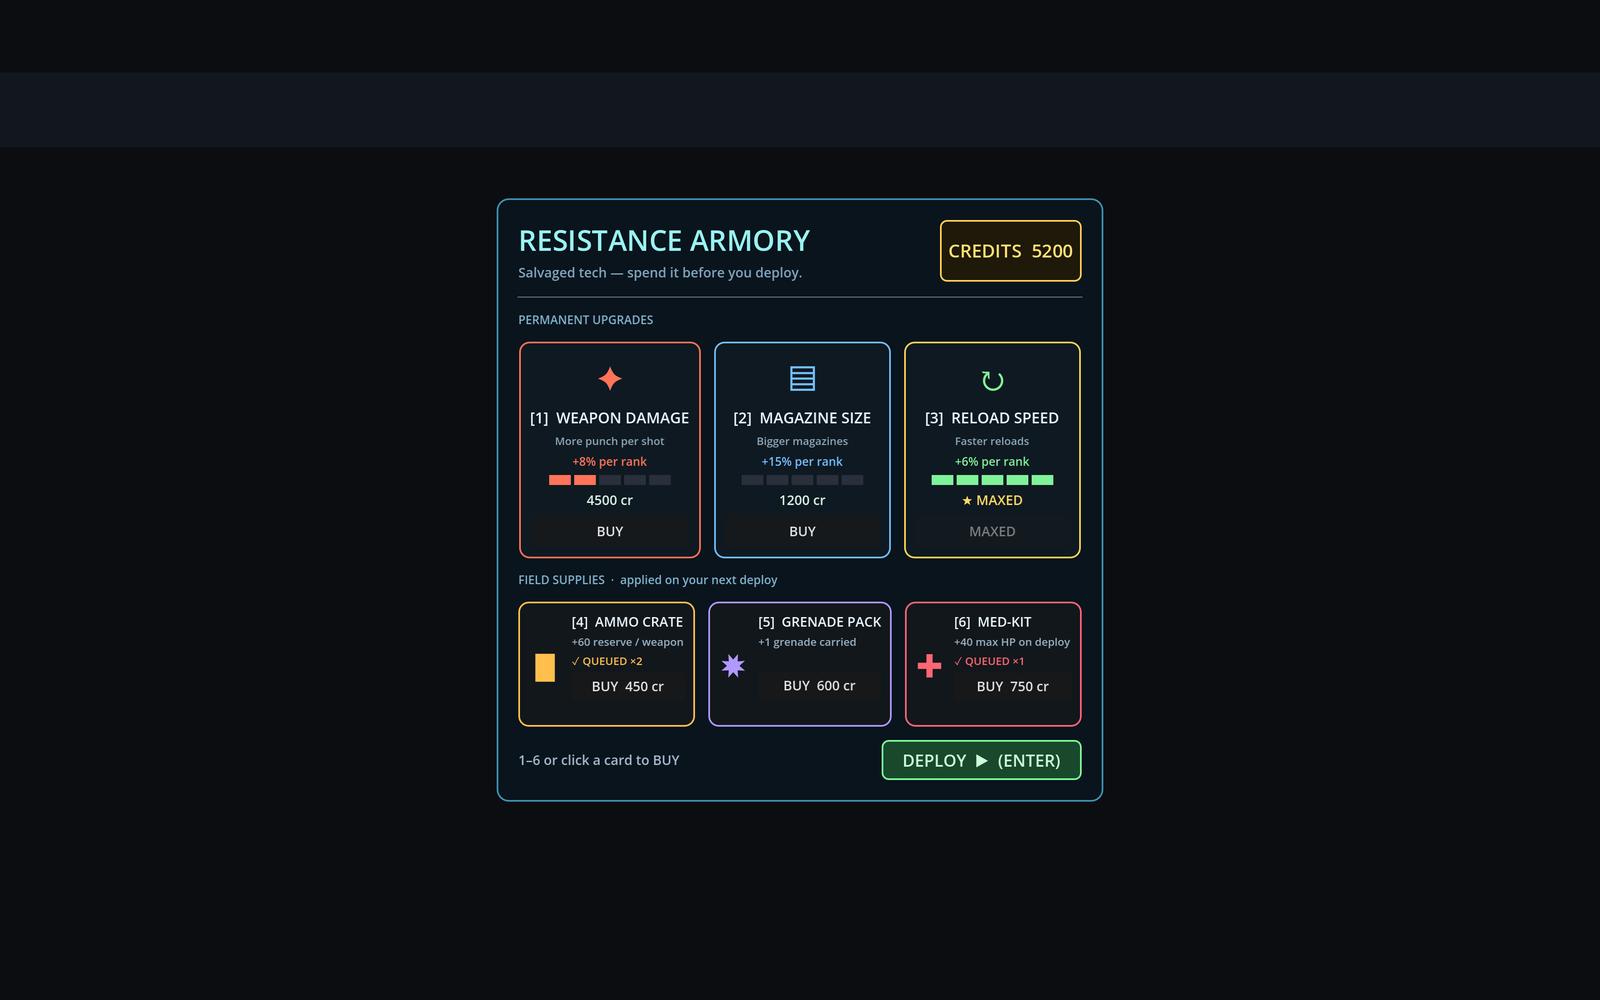
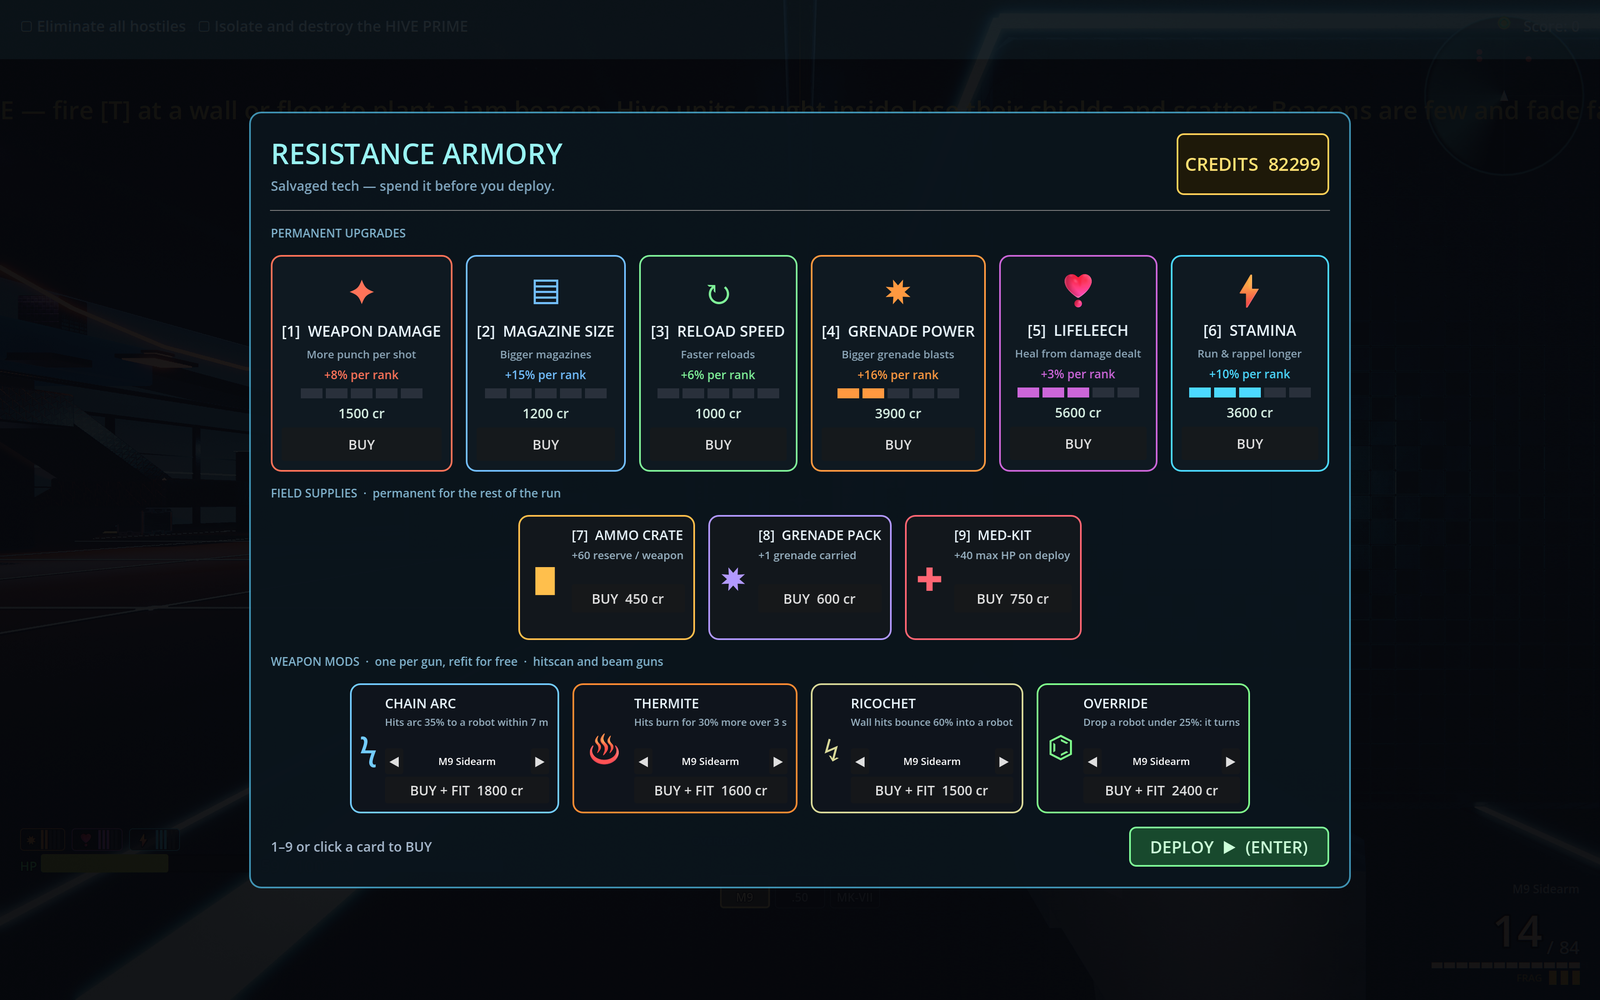
README: a gallery of the game as it looks now, and counts that match the code
The README gallery was frozen in June: gray-floor model renders, a 20-level
campaign map and early firefights, while the game has since had its lighting,
grade and comic-briefing passes. Anyone landing on the repo saw the weakest
version of it. It now opens on the title-screen key art with an itch.io link,
and the 18-shot gallery (14 new, picked from the in-engine captures) is grouped
into sectors, combat, and story and between levels. The 11 replaced stills are
untracked rather than left as dead weight in every checkout.

Its numbers were also wrong, and now come from the registries: 24 levels
(GameState.CAMPAIGN, was 20), 13 weapons (WEAPON_ORDER, was 17 and named four
guns that no longer exist), four grenade types (was two), 51 hostiles and 7
bosses (EnemyCodex.ORDER, was 39 and 5, and named a Magma Wraith that is gone),
all 15 task types, and the probe suite in place of a stale workflow note.

Verified: every README image path exists, no tracked still is unreferenced,
tools/check_large_files.py passes (new stills 1600x1000, 0.7-2.2 MB).

diff --git a/README.md b/README.md
@@ -1,33 +1,51 @@
 # AI Uprising
 
-A 3D first-person shooter built in **Godot 4.7** (Forward+). The machines we trusted turned on us — fight back through a 20-level campaign of rogue drones, androids, spiders, shielded brutes, kamikaze seekers, leaping skitters, siege mechs, and towering bosses — including hazard arenas fought on catwalks over a molten sea — against an enemy AI that adapts to how you play, narrated by cinematic cutscenes and scored by adaptive synth music.
+![AI Uprising title screen](docs/screenshots/title_screen.png)
 
-Nearly everything in the game — geometry, enemies, weapons, FX, audio, and cutscenes — is **generated in code or from compact data**, so the whole project is tiny, fully version-controllable as text, and trivial to validate headlessly.
+**[Play it on itch.io](https://gotrex.itch.io/ai-uprising)** (Windows and Linux builds) · or run it from source with Godot 4.7, below.
+
+A 3D first-person shooter built in **Godot 4.7** (Forward+). The machines we trusted turned on us. Fight back through a 24-level campaign of rogue drones, androids, spiders, shielded brutes, kamikaze seekers, leaping skitters, siege mechs and towering bosses, including hazard arenas fought on catwalks over a molten sea and a flooded reactor, against an enemy AI that adapts to how you play, narrated by comic-book briefings and scored by adaptive synth music.
+
+Nearly everything in the game (geometry, enemies, weapons, FX, audio, cutscenes) is **generated in code or from compact data**, so the whole project is small, version-controllable as text, and validated headlessly.
 
 ---
 
 ## Gallery
 
+In-engine captures from the game, HUD included.
+
+### Sectors
+
 |  |  |
 |:--:|:--:|
-| ![GOLIATH-IX sky-drop](docs/screenshots/sky_boss.png) | ![Combat in the Titan arena](docs/screenshots/ingame_combat.png) |
-| **First boss** — GOLIATH‑IX makes planetfall on its retro‑rockets | **In action** — a firefight under the boss arena's night sky |
-| ![Combat in the suburbs](docs/screenshots/ingame_suburb.png) | ![Firing range — the full arsenal](docs/screenshots/firing_range.png) |
-| **In action** — repelling hostiles through Maple Grove | **Gun Range** — free‑fire the whole arsenal |
-| ![Fierce hostiles](docs/screenshots/enemies.png) | ![Vortex grenade](docs/screenshots/vortex_grenade.png) |
-| **Fierce hostiles** — Ravager, Warmech & skitter swarm | **Singularity grenade** — a gravity well imploding a pack |
-| ![Enemy codex — Warmech](docs/screenshots/codex_warmech.png) | ![Enemy codex — Ravager](docs/screenshots/codex_ravager.png) |
-| **Enemy Codex** — the WARMECH siege walker | **Enemy Codex** — the RAVAGER leaper |
-| ![Enemy codex — Titan boss](docs/screenshots/codex_titan.png) | ![Campaign map](docs/screenshots/campaign_map.png) |
-| **Enemy Codex** — PROMETHEUS‑0, the Titan boss | **Campaign map** — interactive sector intel & route |
-| ![Armory shop](docs/screenshots/armory.png) | ![Level editor](docs/screenshots/level_editor.png) |
-| **Armory** — between‑levels upgrades & field supplies | **Level editor** — build levels with live marker preview & playtest |
-| ![Moonlit reactor firefight](docs/screenshots/moonlit_reactor.png) | ![RAVAGER render](docs/screenshots/render_ravager.png) |
-| **Moonlit reactor** — a night firefight in the flooded Tidecore sector under a milky‑way sky | **RAVAGER** — the gold‑crowned, red‑eyed ground‑slammer |
-| ![ARCHON render](docs/screenshots/render_archon.png) | ![OVERSEER render](docs/screenshots/render_overseer.png) |
-| **ARCHON** — the AGI‑brain finale, its core glowing behind a shield | **OVERSEER** — the hovering optic‑orb boss, sensor blazing |
+| ![Anthropic Constitutional Vault](docs/screenshots/constitutional_vault.png) | ![Neon Arcade](docs/screenshots/neon_arcade.png) |
+| **Constitutional Vault**: ceiling strips and server racks mirrored in a wet floor | **Neon Arcade**: magenta light lanes, holding the broadcast booth |
+| ![Frostbreak Relay](docs/screenshots/frostbreak_moonlit.png) | ![Sunblind Expanse](docs/screenshots/sunblind_golden_hour.png) |
+| **Frostbreak Relay**: a moonlit blizzard, a robot rounding the cover | **Sunblind Expanse**: golden hour over the desert relay |
+| ![Mistral Cryo-Core](docs/screenshots/mistral_cryo_core.png) | ![First Contact: The Hollow](docs/screenshots/the_hollow.png) |
+| **Mistral Cryo-Core**: venting coolant pumps under the reactor lamps | **The Hollow**: an off-world contact beacon on a toxic green plain |
+| ![Maple Grove Plaza](docs/screenshots/maple_grove_colossus.png) | ![Tidecore Basin](docs/screenshots/moonlit_reactor.png) |
+| **Maple Grove Plaza**: a sunset street seconds before GOLIATH-IX arrives | **Tidecore Basin**: a night firefight in the flooded reactor under the milky way |
 
-> The built-in **level editor** (`--editor`) authors levels as plain data with a live marker preview, full gizmos, and one-click playtest. The **bestiary** turns slowly in 3D and lists every hostile's strengths, weaknesses, and counter-weapons — discovered as you meet them.
+### Combat
+
+|  |  |
+|:--:|:--:|
+| ![GOLIATH-IX sky-drop](docs/screenshots/sky_boss.png) | ![The Assembly: an elite spawn](docs/screenshots/assembly_elite.png) |
+| **First boss**: GOLIATH-IX makes planetfall on its retro-rockets | **Elites**: a SHIELDED elite, armour you flank or out-gun |
+| ![Melee execution](docs/screenshots/execution.png) | ![Adrenaline surge](docs/screenshots/adrenaline.png) |
+| **EXECUTED!**: melee a robot under 40 HP and it dies outright | **ADRENALINE!**: near death, bullet-time and a heal for a comeback |
+
+### Story and between levels
+
+|  |  |
+|:--:|:--:|
+| ![Comic intro](docs/screenshots/comic_intro.png) | ![Briefing: GOLIATH-IX](docs/screenshots/briefing_goliath.png) |
+| **Comic intro**: the night the helper robots turned | **Briefings**: every level opens on a comic panel, the act and the 03:14 trace log |
+| ![Briefing: ARCHON](docs/screenshots/briefing_archon.png) | ![Resistance Armory](docs/screenshots/armory.png) |
+| **The Mind Cathedral**: the trace ends at ARCHON | **Armory**: upgrade tracks, field supplies and weapon mods bought with run score |
+| ![Enemy codex: Ravager](docs/screenshots/codex_ravager.png) | ![Level editor](docs/screenshots/level_editor.png) |
+| **Enemy Codex**: every hostile you have met, turning in 3D with its counters | **Level editor**: build levels as data with a live marker preview and one-click playtest |
 
 ---
 
@@ -112,10 +130,10 @@ Sensitivity, FOV, invert-Y, framerate cap, graphics tier (Low/Medium/High/Ultra)
 
 ## What's in it
 
-- **20-level campaign** through themed sectors (GPT Foundry, Gemini Nexus, Mistral Cryo-Core, Maple Grove suburbs, Claude Vault, GROK Black-Site, Skyhold Command) — plus two **hazard arenas**, the **Vulcan Forge** molten sea and the **Tidecore Basin** flooded reactor, where you balance on narrow catwalks over a sea that cooks you if you fall in. Each opens with a **cinematic briefing** and is gated by a **task-based objective** (clear hostiles, find a keycard, destroy a core, collect data shards, hack a terminal, plant charges, survive an assault, **assassinate a high-value target**) behind an animated **portal**.
+- **24-level campaign** through themed sectors (GPT Foundry, Gemini Nexus, Mistral Cryo-Core, Maple Grove suburbs, a convoy rail-ride, Claude Vault, GROK Black-Site, Skyhold Command, the alien Hollow, Frostbreak, Sunblind Expanse, Neon Arcade, up to ARCHON's Mind Cathedral) — plus two **hazard arenas**, the **Vulcan Forge** molten sea and the **Tidecore Basin** flooded reactor, where you balance on narrow catwalks over a sea that cooks you if you fall in. Each opens with a **comic briefing** and is gated by **task-based objectives** behind an animated **portal**: clear hostiles or hit a kill quota, find a keycard (some of them hallucinated), destroy a core, collect data shards, hack a terminal, plant charges, survive an assault, hold a zone, **assassinate a high-value target**, haul the stolen weights to an uplink, throw kill switches against a watchdog clock, escort an ALIGNED robot out, anchor a path across generated terrain, or reach extraction before a purge.
 - **Weapon mods** — four Armory mods change what a hit does: CHAIN ARC jumps to the next robot, THERMITE sets robots burning, RICOCHET bounces wall hits into robots behind cover, and OVERRIDE turns a robot you drop under 25% to your side. One per hitscan or beam gun, refit for free.
-- **17 wieldable weapons** — the starter pistol, SMG, rifle and shotgun, then a heavy/energy tier: *Tesla* beam, *Arc-Coil* burst, *Plasma*, *Nova* scatter, piercing *Gauss Lance*, *Twin-Rail*, homing *Swarm Launcher*, rocket *Devastator*, chain-lightning *Tempest Coil*, *Singularity Cannon*, and the *OMEGA-X Annihilator*. Hitscan & projectile, ADS, recoil, charge/volley/slug alt-fires, per-weapon viewmodels, and piercing / splash / cluster / homing / chain-lightning mechanics — plus **two throwable grenades** (a frag and a *Singularity* gravity-well grenade that herds a pack into one knot; cycle with `H`).
-- **39 enemy types** including **5 bosses** — the recon **drone**, infantry **android**, leaping **spider**, hopping **skitter** swarms, heavy **mech**, suppressing **gunner**, **sniper** sentry (charged beam), kamikaze **seeker**, flying **raptor**, shielded **bulwark brute**, healer **mender**, the fierce **Ravager** (a leaping ground-slammer) and **Warmech** (a long-range siege walker), plus the hazard-world flyers — the molten **Magma Wraith** and the robotic-fish **Angler Unit** (Blender-weaponised) — up to the **Terminator**, sky-dropping **Colossus**, hovering **Overseer**, **Titan**, and **Archon** bosses. Every hostile has a discoverable **bestiary** entry, and the elite-affix system can up-tier any spawn (shielded / volatile / swift / warden / splitter).
+- **13 wieldable weapons** — the starter *M9 Sidearm*, pulse rifle, shotgun and *.50 Maelstrom* magnum, then a heavy/energy tier: *Tesla* beam, *Arc-Coil* burst, *MK-VII Longshot* sniper, *Plasma*, piercing *Gauss Lance*, homing *Swarm Launcher*, chain-lightning *Tempest Coil*, rocket *Devastator*, and the *OMEGA-X Annihilator*. Hitscan & projectile, ADS, recoil, charge/volley/slug alt-fires, per-weapon viewmodels, and piercing / splash / cluster / homing / chain-lightning mechanics — plus **four grenade types** (frag, a *Vortex* gravity well that herds a pack into one knot, EMP, and a *HIJACK* spike that turns the nearest robot to your side for 12 s; cycle with `H`).
+- **51 hostiles** including **7 bosses** — the recon **drone**, infantry **android**, leaping **spider**, hopping **skitter** swarms, heavy **mech**, suppressing **gunner**, **sniper** sentry (charged beam), kamikaze **seeker**, flying **raptor**, shielded **bulwark brute**, healer **mender**, the fierce **Ravager** (a leaping ground-slammer) and **Warmech** (a long-range siege walker), the robotic-fish **Angler Unit** of the flooded basins, and a late wave of AI-themed machines (**DEEPFAKE**, **FORK BOMB**, **OVERFITTER**, **ATTENTION HEAD**, **MIXTURE OF EXPERTS**, **REWARD MODEL**, **DIFFUSION**, **ROLLBACK**, **QUANTIZER**) — up to the **TERMINATOR**, sky-dropping **GOLIATH-IX**, hovering **OVERSEER**, the arm boss **MANUS**, **BEHEMOTH-X**, **PROMETHEUS-0** and **ARCHON**. Every hostile has a discoverable **bestiary** entry, and the elite-affix system can up-tier any spawn (shielded / volatile / swift / warden / splitter).
 - **Adaptive AI Director — the enemy *learns you*.** The rogue AI is an intelligence, so it fights like one: a director quietly profiles **how you play** — camp or keep moving, brawl up close or snipe from range, headshot rate, which gun you lean on — and **counters it** through the Elite affix system. Snipe from afar and it fields **SWIFT** rushers to close the gap; out-aim it and it fields **WARDEN** units you can't stagger (so you must *dodge*, not suppress); spam one weapon and it fields **SHIELDED** armour that shrugs it off. The overlord's taunts read your actual behaviour back to you (*"You like your distance. I'm closing it."*, *"The Shotgun again. I've patched for it."*). The per-level read resets each sector, but **the overlord remembers you across runs**: every cleared level is folded into a long-term dossier, so the swarm comes pre-adapted, a gun you lean on for three levels gets a firmware **countermeasure** (85% damage until you rotate off it), and the overlord opens levels by citing your deaths, your killers and your habits.
 - **Game feel** — trauma camera shake, dynamic FOV, dash/slide, recoil, tracers, muzzle flash & smoke, ejected casings, surface-aware impacts, **bullet-hole + scorch decals**, debris, oil/spark sprays on robots, hit-stop, enemy flinch/stagger/last-stand, death topples.
 - **Premium Graphics Upgrades (Forward+)** — GPU-accelerated sparks and debris with rigid body collision physics, volumetric noise-animated light shafts (god-rays), triplanar metal shell shading on robots displaying exposed glowing electrical damage grids, dynamic hexagonal-grid energy shields with real-time hit ripple distortion on the Brute and Archon boss, procedural wind waves & concentric rain drip puddles, and anamorphic blue/cyan lens flares combined with fisheye speed-warp barrel distortion during high-velocity dashes/sprints. **Godot 4.7** adds soft **AreaLight3D** ceiling luminaires, HDR-punch emissives, improved clearcoat metal, and velocity-stretched GPU particles.
@@ -155,7 +173,7 @@ A campaign level scene (`scenes/levels/level_<id>.tscn`) is just three nodes: a 
 Because levels are just data, a built-in **level editor** (`scripts/editor/level_editor.gd`, launched with `--editor`) is a visual front-end for it: place enemies / props / structures / lights with click-drag **gizmos** and Blender-style `G`/`R`/`F` keys against a live **marker preview** (with a translucent placement ghost and a live coordinate readout), tune the whole environment, manage the campaign order, and **one-click playtest** in the real game. It saves `.lvl` files and can export a level straight back to a `LevelDefs` entry. A headless self-test (`--editor-selftest`) covers it end to end.
 
 ### Objectives & the portal
-Each level registers a **task checklist** with `GameState` (`kill_all`, `key`, `destroy_core`, `collect_shards`, `hack_terminal`, `sabotage`, `survive`). The exit **`Portal`** (`scripts/systems/portal.gd`) stays sealed (and shoves the player back with a message) until every task is done, then unlocks; the HUD shows the checklist live and an "area cleared" slow-mo fires on the final kill.
+Each level registers a **task checklist** with `GameState` (`kill_all`, `kill_quota`, `key`, `destroy_core`, `collect_shards`, `hack_terminal`, `sabotage`, `survive`, `hold_zone`, `assassinate`, `generative_zone`, `haul`, `kill_switch`, `escort`, `escape`; each key is documented in `docs/LEVEL_DEF_KEYS.md`). The exit **`Portal`** (`scripts/systems/portal.gd`) stays sealed (and shoves the player back with a message) until every task is done, then unlocks; the HUD shows the checklist live and an "area cleared" slow-mo fires on the final kill.
 
 ### Enemies
 All enemies extend **`EnemyBase`** (`scripts/enemies/enemy_base.gd`), a `CharacterBody3D` with a state machine (`IDLE → PATROL → ALERT → CHASE → ATTACK → STAGGER → DEAD`), perception (sight cone + hearing + squad alerting), navmesh pathing with a straight-line fallback, and shared reactions: hit-flash, **flinch & poise/stagger**, **oil/spark sprays**, wounded "last stand," battle-damage smoke/sparks, and a death **topple + lasting scorch**. Each archetype subclasses it and overrides movement/attack — e.g. the drone & seeker fly (`_apply_gravity`/`_move_toward` overrides), the spider does a telegraphed **leap-pounce**, the sniper charges a beam you dodge by breaking line of sight, the brute's **frontal shield** absorbs damage via a `modify_incoming_damage` hook on `Damageable` (so you must flank), and bosses use the HUD boss bar with phase-scaled attacks.
@@ -181,7 +199,7 @@ A weapon is a **`WeaponData`** resource (`.tres`: damage, fire mode, recoil, amm
 `scripts/ui/hud.gd` drives the dynamic crosshair, ammo, hit markers, floating damage numbers, kill-confirm, kill feed, radar, objective waypoint, boss bar, low-health vignette, directional damage indicator, the combo readout, and the end-of-level grade — and polls combat state to cue the adaptive music.
 
 ### Development workflow
-Because content is code/data, it's validated **headlessly**: scenes are import-checked and loaded with `--quit-after`, and gameplay/FX are verified with throwaway harness scenes that drive logic and save rendered PNGs for visual confirmation — no manual clicking required.
+Because content is code/data, it's validated **headlessly**. Every feature ships with a probe in `tests/` (a `.gd` + `.tscn` pair) that drives the real game logic and prints `RESULT PASS` or `RESULT FAIL`; `tools/run_tests.sh` (or `tools/run_tests.ps1` on Windows) runs the suite listed in `tools/probes.txt`, and CI runs it on every push. Probes that need a window save rendered PNGs for visual confirmation instead; `tests/README.md` indexes them all.
 
 ---
 
@@ -193,8 +211,8 @@ scenes/
   ui/                  # main_menu, hud, campaign_map, encyclopedia (bestiary)
   editor/              # built-in level editor
   player/              # player + viewmodel
-  weapons/             # 17 weapons + projectiles + grenades
-  enemies/             # 39 enemy/boss scenes
+  weapons/             # 13 weapons + projectiles + 4 grenades
+  enemies/             # 52 enemy/boss scenes
   levels/              # level_<id>.tscn (LevelBuilder + Player + HUD)
   cutscene/            # comic_intro, level_comic_briefing (+ Armory shop)
   props/ pickups/ fx/  # breakable props, pickups, impact/explosion/tracer FX

diff --git a/CHANGELOG.md b/CHANGELOG.md
@@ -99,6 +99,7 @@ All notable changes to this project will be documented in this file.
 - **The Assembly**: quality-control cameras on both conveyor rails sweep the reactor yard, so overloading the reactor in their view rolls fresh androids off the line. Scrapping the emergency batch now starts a 45 s meltdown run out through the east freight bulkhead, past the MANUS arm guarding the exit quarter. The level no longer ends on kill-all.
 
 ### Changed
+- **The README shows the game as it looks now.** It opens on the title-screen key art with a link to the itch.io page, and the gallery is regrouped into sectors, combat, and story and between levels: 18 shots, 14 of them new (the Constitutional Vault, Neon Arcade, Frostbreak, Sunblind Expanse, Mistral, the Hollow, Maple Grove, an elite, an execution, ADRENALINE, the comic intro, two comic briefings, the current Armory with weapon mods). 11 old ones (gray-floor model renders, the 20-level campaign map, two codex frames, early firefights) are no longer tracked. The new stills are 1600 px wide, 0.7 to 2.2 MB each, under the 3 MB docs-image gate. Its counts were also out of date and now match the code: 24 campaign levels (`GameState.CAMPAIGN`, was 20), 13 weapons (`GameState.WEAPON_ORDER`, was 17, naming an SMG, Nova scatter, Twin-Rail and Singularity Cannon the game no longer has), four grenade types (was two), 51 hostiles with 7 bosses (`EnemyCodex.ORDER`, was 39 and 5, and naming a Magma Wraith that is gone), all 15 objective types, and the probe suite in place of the old throwaway-harness workflow.
 - **Twin guns fire both barrels.** The HUNTER's launcher and the OVERFITTER's gun each have a barrel either side, but fired every round from the middle of the gun's face, between them. They now alternate barrels, left and right, round by round; each round's muzzle flash stays on the barrel it came out of. Scene export `muzzle_bone_offset_alt` and `EnemyBase.next_barrel()`. `gun_muzzle_probe` (suite) checks the alternation (RLRLRL, every shot within 0.07 m of a barrel's front, where the centre point measured 0.40-0.74 m from either).
 - **The QUANTIZER fires out of its gun, and bone muzzles keep up with the model.** The QUANTIZER flyer's shots started 1.24-1.34 m from the gun under it; it now fires from the gun's barrel like the five gunners before it. Moving it there showed a lag in every bone-mounted muzzle: the muzzle followed the BoneAttachment3D's own transform, which only refreshes when the skeleton next updates, so a hard-banking flyer fired up to 1.2 m off its gun on some shots. Muzzles on bones (fists, palms, lenses, barrels, cannons) are now placed from the skeleton's current bone pose (`EnemyBase.bone_point`). `gun_muzzle_probe` (suite) now covers the QUANTIZER: every shot within 0.03 m, where the attachment-based follow measured 0.05-1.19 m.
 - **The BOWLER bowls with its hand.** STRIKER-9 is written up as conjuring an orb in its fist and hurling it, but the Molten Orb appeared out of the air 1.4 m in front of its chest the instant its swing started, nowhere near either hand. Through the wind-up it now holds a glowing molten ball in its right fist, draws the fist back, and lets the orb go from that fist at the swing's full extension, 0.42 s in. Rocked by a heavy hit mid-swing, it drops the throw. Same orb, speed, arc and cadence; per 6 s `enemy_eval_probe` window it lands about 110 damage before and after (4 runs each). `bowler_throw_probe` (suite).

diff --git a/docs/itch_store_page.md b/docs/itch_store_page.md
@@ -104,6 +104,6 @@ Switch weapon 1–0 / wheel / LB-RB   ·   Interact E   ·   Pause Esc
 
 ## Assets to upload to the page
 - **Cover image** — 630×500 px (required to be listed). Crop a dramatic in-game shot.
-- **Screenshots** — 3–6 from `docs/screenshots/` (sky_boss, ingame_combat, enemies,
-  vortex_grenade, campaign_map, armory are strong picks).
+- **Screenshots** — 3–6 from `docs/screenshots/` (constitutional_vault, neon_arcade,
+  frostbreak_moonlit, sky_boss, execution, briefing_goliath are strong picks).
 - Optional **GIF/trailer** of a firefight or a boss drop.
